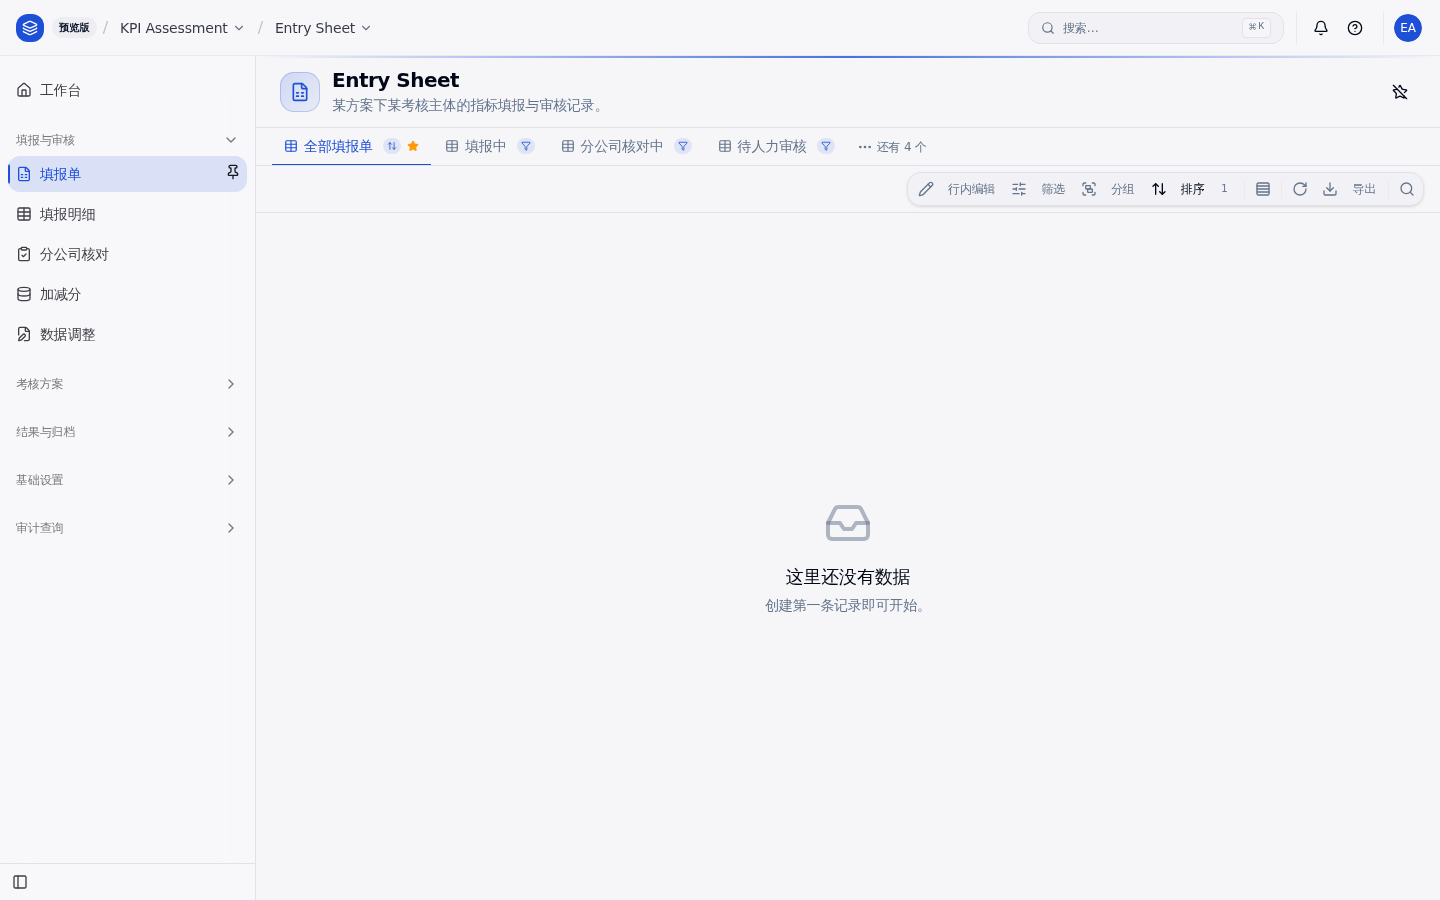
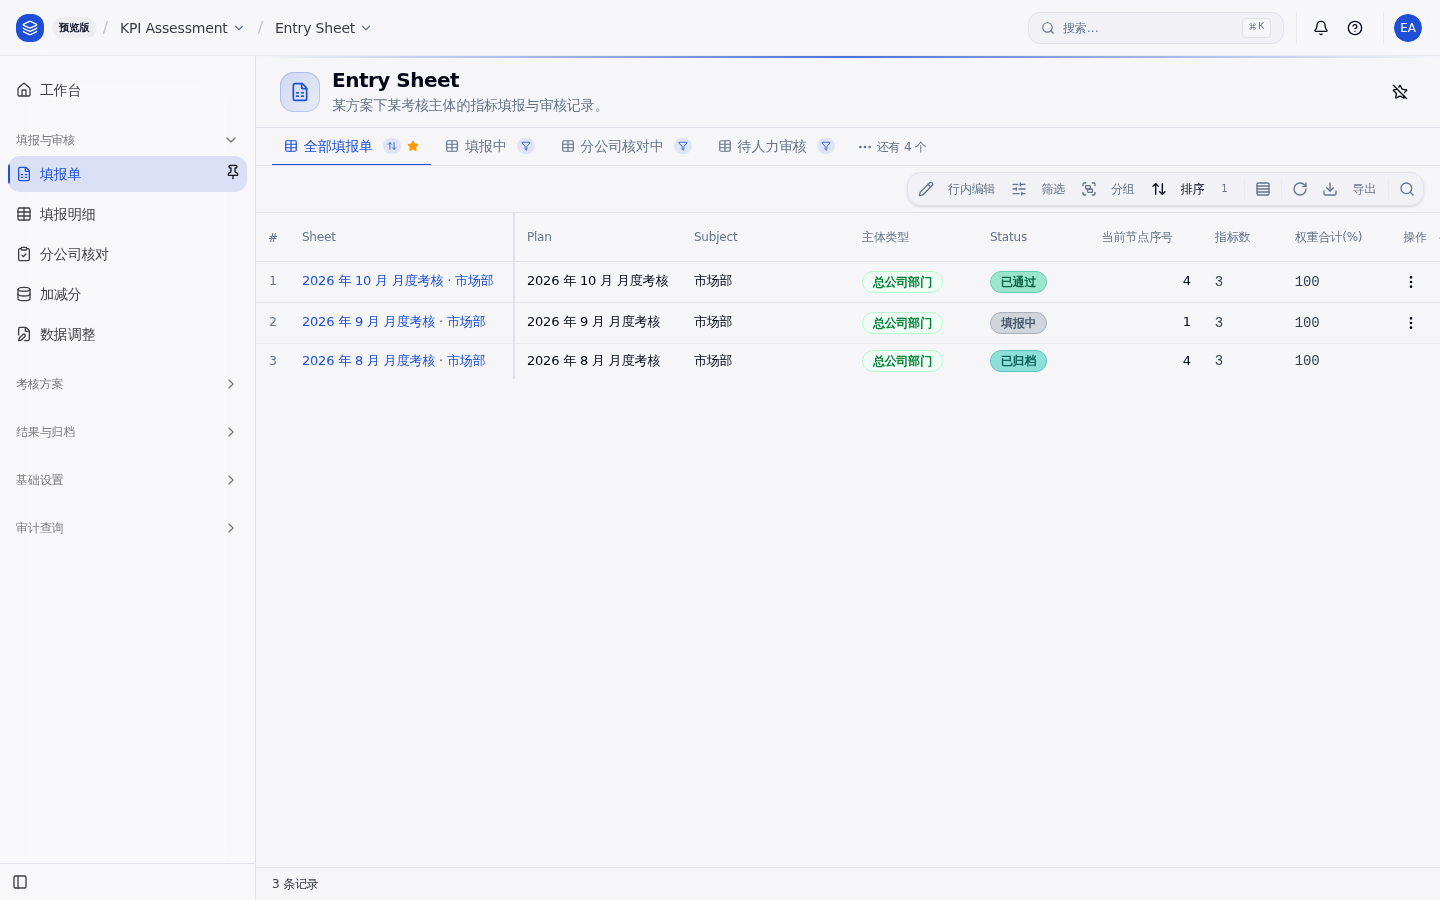
fix(security): make the dynamic data scope actually grant, end to end
Three things stood between the sharing rules and a working data scope. All
three are now measured green: pnpm e2e is 53/53 on a wiped DB, twice.

1. Re-assert the rules at every business trigger. The platform SKIPS record
   sharing materialisation for `isSystem` writes by design (plugin-sharing
   rule-hooks: "sharing materialisation skipped for isSystem writes"; the
   sanctioned remedy is re-evaluating the rule, which is idempotent). Every
   business record in this app -- entry sheets, check tasks, adjustments,
   results -- is created by a hook under the system context, so none of them
   were ever granted at creation. `ensureRule` therefore writes the rule even
   when its content is unchanged, and publish / branch-check entry / adjustment
   approval / result rescore each re-assert the rules for the objects they just
   wrote (`provisionPlanSharing(api, plan, { objects })`).

2. Align the demo fixture's tenancy (src/data/align-demo-units.ts). Seeded
   `sys_business_unit` rows carry `organization_id = NULL` while a rule is
   stamped with the caller's organization, and recipient expansion compares the
   two with strict equality -- so only seeded units expanded to nobody. This
   stamps them the way an admin-created unit already is, at
   `kernel:bootstrapped` (verified to fire on a fresh boot, with the
   organization already resolvable), and is narrowed three ways: dev/test only,
   only the ids this app seeds, only rows whose organization is NULL.
[…]

diff --git a/src/data/align-demo-units.ts b/src/data/align-demo-units.ts
@@ -1,0 +1,110 @@
+import { DEMO_UNIT_IDS } from './index.js';
+
+/**
+ * 演示夹具的租户对齐 —— **临时**,随 objectstack-ai/objectstack#14547 的平台修复一起删除。
+ *
+ * ⚠ 这不是发布 / 共享逻辑的一部分,不改 `services/sharing-service.ts` 的任何语义。
+ * 它修的是**本应用自己的演示夹具**:种子写入的 `sys_business_unit` 行 `organization_id` 为空,
+ * 而管理员在 Setup 里建的单元会被引擎盖上当前组织。共享规则的收件方展开对这一列做**等值**
+ * 比较(平台自己的租户过滤是「本组织或为空」),于是只有种子单元展开不出人 —— 演示环境
+ * 的数据范围整片消失,真实客户组织不受影响。这里把种子单元补成「管理员建的那样」,让演示
+ * 环境与产品路径一致。
+ *
+ * 平台修复(orgScope 改用平台自己的空值宽松租户过滤)落地后:删除本文件、删除
+ * `objectstack.config.ts` 里的调用、删除 README 演示种子一节里的对应说明。
+ *
+ * 三重收窄,任一不满足就不动:
+ *   ① 只在 dev / test 运行(`NODE_ENV === 'production'` 一律跳过);
+ *   ② 只认本应用种子写入的那几个 id(`DEMO_UNIT_IDS`),管理员 / API 建的单元 id 不在其中;
+ *   ③ 只补 `organization_id` 为空的行 —— 已归属某个组织的行绝不改写。
+ */
+
+const SYS = { isSystem: true } as const;
+
+export interface AlignHostContext {
+  ql: {
+    find: (object: string, query: unknown, options?: unknown) => Promise<unknown>;
+    update: (object: string, data: Record<string, unknown>, options?: unknown) => Promise<unknown>;
+  };
+  logger?: { info?: (...a: unknown[]) => void; warn?: (...a: unknown[]) => void };
+  hook?: (event: string, handler: () => Promise<void> | void) => void;
+}
+
+function rowsOf(result: unknown): Array<Record<string, any>> {
+  if (Array.isArray(result)) return result as Array<Record<string, any>>;
+  const records = (result as { records?: unknown })?.records;
+  return Array.isArray(records) ? (records as Array<Record<string, any>>) : [];
+}
+
+/** 生产环境一律不跑;其余环境(dev / test)才是演示夹具的用武之地。 */
+export function isDemoEnvironment(nodeEnv: string | undefined = process.env.NODE_ENV): boolean {
+  return String(nodeEnv ?? '').toLowerCase() !== 'production';
+}
+
+/**
+ * 唯一一个组织时返回它;零个(还没引导完)或多个(多租户,谁是「当前」无从判断)都返回 null,
+ * 由调用方跳过 —— 猜一个组织去盖章比不盖章危险得多。
+ */
+export async function resolveSingleOrganization(ctx: AlignHostContext): Promise<string | null> {
+  try {
+    const orgs = rowsOf(await ctx.ql.find('sys_organization', { limit: 2, context: SYS }));
+    if (orgs.length !== 1) return null;
+    const id = orgs[0]?.id;
+    return id ? String(id) : null;
+  } catch (err) {
+    ctx.logger?.warn?.('[kpi] demo unit alignment: organization lookup failed', { error: err instanceof Error ? err.message : String(err) });
+    return null;
+  }
+}
+
+export interface AlignOutcome {
+  aligned: string[];
+  skipped: 'not_demo_env' | 'no_single_organization' | 'nothing_to_align' | null;
+}
+
+/** 幂等:补过一次之后再跑,查出来的待补行为空,什么都不写。 */
+export async function alignDemoUnits(ctx: AlignHostContext): Promise<AlignOutcome> {
+  if (!isDemoEnvironment()) return { aligned: [], skipped: 'not_demo_env' };
+  const organizationId = await resolveSingleOrganization(ctx);
+  if (!organizationId) return { aligned: [], skipped: 'no_single_organization' };
+
+  let pending: Array<Record<string, any>> = [];
+  try {
+    pending = rowsOf(await ctx.ql.find('sys_business_unit', {
+      where: { id: { $in: [...DEMO_UNIT_IDS] }, organization_id: null },
+      fields: ['id', 'name', 'organization_id'],
+      limit: 200,
+      context: SYS,
+    }));
+  } catch (err) {
+    ctx.logger?.warn?.('[kpi] demo unit alignment: lookup failed', { error: err instanceof Error ? err.message : String(err) });
+    return { aligned: [], skipped: 'nothing_to_align' };
+  }
+  // 二次收窄:即使查询没能过滤掉,也只动 id 在清单里、组织为空的行。
+  const targets = pending.filter((u) => DEMO_UNIT_IDS.includes(String(u.id)) && (u.organization_id ?? null) === null);
+  if (targets.length === 0) return { aligned: [], skipped: 'nothing_to_align' };
+
+  const aligned: string[] = [];
+  for (const unit of targets) {
+    try {
+      await ctx.ql.update('sys_business_unit', { organization_id: organizationId }, { where: { id: String(unit.id) }, context: SYS });
+      aligned.push(String(unit.id));
+    } catch (err) {
+      ctx.logger?.warn?.('[kpi] demo unit alignment: update failed', { unit: unit.id, error: err instanceof Error ? err.message : String(err) });
+    }
+  }
+  ctx.logger?.info?.('[kpi] demo unit tenancy aligned (fixture only — remove with objectstack#14547)', { organization: organizationId, units: aligned });
+  return { aligned, skipped: null };
+}
+
+/** 在安全引导完成后补齐(与岗位↔权限集绑定同一时机)。 */
+export function registerDemoUnitAlignment(ctx: AlignHostContext): void {
+  const run = async (): Promise<void> => {
+    const outcome = await alignDemoUnits(ctx);
+    if (outcome.skipped && outcome.skipped !== 'nothing_to_align') {
+      ctx.logger?.info?.('[kpi] demo unit tenancy alignment skipped', { reason: outcome.skipped });
+    }
+  };
+  if (typeof ctx.hook === 'function') ctx.hook('kernel:bootstrapped', run);
+  else void Promise.resolve().then(run);
+}

diff --git a/src/services/sharing-service.ts b/src/services/sharing-service.ts
@@ -177,19 +177,16 @@ export function planSharingIntents(subjects: SubjectRow[], assignments: Assignme
   return intents;
 }
 
-function rowMatches(row: Record<string, any>, intent: SharingIntent, criteriaJson: string): boolean {
-  return (
-    row.object_name === intent.object &&
-    String(row.criteria_json ?? '') === criteriaJson &&
-    row.recipient_type === intent.recipientType &&
-    String(row.recipient_id ?? '') === intent.recipientId &&
-    row.access_level === intent.accessLevel &&
-    row.active !== false
-  );
-}
-
-/** 写入一条规则;同名规则已存在且内容一致时什么都不做(幂等)。 */
-async function ensureRule(api: Api, intent: SharingIntent, organizationId: string | null): Promise<'created' | 'updated' | 'unchanged'> {
+/**
+ * 写入一条规则。**内容相同也照写一次**,这不是多余的:平台对 `isSystem` 写入**跳过**记录
+ * 共享的物化(plugin-sharing 的 rule-hooks:「sharing materialisation skipped for isSystem
+ * writes」,官方补偿手段是重新求值规则,`evaluateRule` 幂等)。本应用的填报单、核对任务、
+ * 调整、结果**全部**由 hook 以系统上下文创建,所以这些记录不会在创建时拿到共享行 ——
+ * 重新写一次规则会触发求值器把该规则匹配到的记录整批补齐,这正是官方的补偿路径。
+ *
+ * 因此每个业务触发点(发布、进入分公司核对、调整新建、结果重算)都重新声明一次相关规则。
+ */
+async function ensureRule(api: Api, intent: SharingIntent, organizationId: string | null): Promise<'created' | 'reasserted'> {
   const criteriaJson = JSON.stringify(intent.criteria);
   const existing = await api.object('sys_sharing_rule').findOne({ where: { name: intent.name } });
   const payload: Record<string, unknown> = {
@@ -208,9 +205,8 @@ async function ensureRule(api: Api, intent: SharingIntent, organizationId: strin
     await api.object('sys_sharing_rule').insert(payload);
     return 'created';
   }
-  if (rowMatches(existing, intent, criteriaJson)) return 'unchanged';
   await api.object('sys_sharing_rule').updateById(String(existing.id), payload);
-  return 'updated';
+  return 'reasserted';
 }
 
 /**
@@ -231,9 +227,13 @@ async function unitOrganizations(api: Api, unitIds: Iterable<string>): Promise<M
 
 export interface ProvisionOutcome {
   created: number;
-  updated: number;
-  unchanged: number;
+  reasserted: number;
   failed: number;
+}
+
+export interface ProvisionOptions {
+  /** 只重新声明这些对象上的规则;省略 = 全部(方案发布时用)。 */
+  objects?: readonly string[];
 }
 
 /**
@@ -242,11 +242,12 @@ export interface ProvisionOutcome {
  * 单条规则写失败只记服务端日志并继续,绝不阻断发布 —— 数据范围是可补偿的:再次发布
  * 或管理员在 Setup 里补一条即可,而发布回滚会让已生成的填报单与业务动作一起丢失。
  */
-export async function provisionPlanSharing(api: Api, planId: string): Promise<ProvisionOutcome> {
-  const outcome: ProvisionOutcome = { created: 0, updated: 0, unchanged: 0, failed: 0 };
+export async function provisionPlanSharing(api: Api, planId: string, options: ProvisionOptions = {}): Promise<ProvisionOutcome> {
+  const outcome: ProvisionOutcome = { created: 0, reasserted: 0, failed: 0 };
   const subjects = (await api.object('kpi_plan_subject').find({ where: { plan: planId } })) as SubjectRow[];
   const assignments = (await api.object('kpi_staff_assignment').find({ where: { plan: planId } })) as AssignmentRow[];
-  const intents = planSharingIntents(subjects ?? [], assignments ?? []);
+  const all = planSharingIntents(subjects ?? [], assignments ?? []);
+  const intents = options.objects ? all.filter((i) => options.objects!.includes(i.object)) : all;
   const orgOf = await unitOrganizations(api, intents.map((i) => i.anchorUnit));
 
   for (const intent of intents) {

diff --git a/src/hooks/sheet.hook.ts b/src/hooks/sheet.hook.ts
@@ -2,6 +2,7 @@ import type { Hook, HookContext } from '@objectstack/spec/data';
 import { actorId, fail, findById, hasPosition, isSystem, merged, nowIso, recordId, sys, writeReview } from './util.js';
 import { requiredPositionFor, STATUS_LABEL, transition, type PlanStepDef, type SheetAction, type SheetStatus } from '../lib/workflow.js';
 import { regenerateResults } from '../services/results-service.js';
+import { provisionPlanSharing } from '../services/sharing-service.js';
 import { createSnapshot } from '../services/snapshot-service.js';
 
 export async function loadPlanSteps(api: ReturnType<typeof sys>, planId: string): Promise<PlanStepDef[]> {
@@ -183,6 +184,19 @@ export const SheetAfterTransitionHook: Hook = {
       } catch (err) {
         // 汇总失败不回滚流程:结果可在下次通过 / 归档 / 调整落地时重算;错误进服务端日志
         console.error('[kpi] regenerate results failed', { plan: now.plan ?? prev.plan, error: err instanceof Error ? err.message : String(err) });
+      }
+    }
+
+    // 本 hook 新建的记录(核对任务、结果)都是系统上下文写入,平台不会在写入时物化记录共享;
+    // 重新声明相关规则让求值器补齐(见 services/sharing-service.ts 的 ensureRule)。
+    const touched: string[] = [];
+    if (toStatus === 'branch_checking') touched.push('kpi_check_task');
+    if (toStatus === 'approved' || toStatus === 'archived') touched.push('kpi_result');
+    if (touched.length) {
+      try {
+        await provisionPlanSharing(api, String(now.plan ?? prev.plan), { objects: touched });
+      } catch (err) {
+        console.error('[kpi] reassert sharing after transition failed', { sheet: id, error: err instanceof Error ? err.message : String(err) });
       }
     }
   },

diff --git a/src/hooks/adjustment.hook.ts b/src/hooks/adjustment.hook.ts
@@ -1,6 +1,7 @@
 import type { Hook, HookContext } from '@objectstack/spec/data';
 import { actorId, fail, findById, hasPosition, isSystem, merged, nowIso, recordId, sys, toNumber, writeReview } from './util.js';
 import { regenerateResults } from '../services/results-service.js';
+import { provisionPlanSharing } from '../services/sharing-service.js';
 
 /** 数据调整申请:插入时记录调整前值;审批时盖章;批准后落地到明细并重算。 */
 export const AdjustmentHook: Hook = {
@@ -64,7 +65,14 @@ export const AdjustmentHook: Hook = {
         actor: actorId(ctx),
         reason: `「${line.indicator_name ?? line.id}」${row.adjust_type === 'result' ? '得分' : '实际值'} ${row.old_value ?? '空'} → ${newValue};原因:${row.reason ?? ''}`,
       });
-      if (sheet && (sheet.status === 'approved')) await regenerateResults(api, String(sheet.plan));
+      if (sheet && (sheet.status === 'approved')) {
+        await regenerateResults(api, String(sheet.plan));
+        try {
+          await provisionPlanSharing(api, String(sheet.plan), { objects: ['kpi_result'] });
+        } catch (err) {
+          console.error('[kpi] reassert result sharing after adjustment failed', { sheet: sheet.id, error: err instanceof Error ? err.message : String(err) });
+        }
+      }
     }
   },
 };

diff --git a/src/security/index.ts b/src/security/index.ts
@@ -85,9 +85,13 @@ export const DeptReporterPermissionSet = definePermissionSet({
     'kpi_entry_line.adjusted_score': { readable: true, editable: false },
     'kpi_entry_line.score': { readable: true, editable: false },
   },
-  // 到人结果只看本人(行级安全只收窄)
+  // 到人结果只看本人(行级安全只收窄)。
+  // 谓词必须把「到人」维度和其它维度分开:`person == current_user.id` 一条会把部门 / 分公司
+  // 维度的行一并挡掉 —— 那些行 person 为空,填报人员于是连本部门的结果都看不到。
+  // 共享才是外层闸门(结果对象 OWD 为 private,只有本单元的结果行被共享规则放行),
+  // 行级安全只在其上再收窄一层:非到人维度照常,到人维度只留本人。
   rowLevelSecurity: [
-    { name: 'kpi_result_own_person', object: 'kpi_result', operation: 'select', using: 'person == current_user.id', positions: ['kpi_dept_reporter'], enabled: true },
+    { name: 'kpi_result_own_person', object: 'kpi_result', operation: 'select', using: "dimension != 'person' || person == current_user.id", positions: ['kpi_dept_reporter'], enabled: true },
   ],
 });
 

diff --git a/objectstack.config.ts b/objectstack.config.ts
@@ -12,6 +12,7 @@ import { allPermissionSets, allPositions } from './src/security/index.js';
 import { registerKpiPositionBindings } from './src/security/bind-position-sets.js';
 import { KpiTranslationBundle } from './src/translations/index.js';
 import { KpiSeedData } from './src/data/index.js';
+import { registerDemoUnitAlignment } from './src/data/align-demo-units.js';
 
 /**
  * KPI 考核管理系统 — 基于 ObjectStack 的独立应用。
@@ -54,4 +55,6 @@ export default defineStack({
 /** 岗位↔权限集绑定在安全引导完成后幂等补齐(不能用种子,见 bind-position-sets.ts)。 */
 export const onEnable = async (ctx: unknown): Promise<void> => {
   registerKpiPositionBindings(ctx as Parameters<typeof registerKpiPositionBindings>[0]);
+  // 演示夹具的租户对齐 —— 临时,随 objectstack-ai/objectstack#14547 的平台修复一起删除。
+  registerDemoUnitAlignment(ctx as Parameters<typeof registerDemoUnitAlignment>[0]);
 };

diff --git a/src/hooks/bonus.hook.ts b/src/hooks/bonus.hook.ts
@@ -1,6 +1,7 @@
 import type { Hook, HookContext } from '@objectstack/spec/data';
 import { actorId, fail, findById, hasPosition, isSystem, merged, nowIso, sys, toNumber } from './util.js';
 import { regenerateResults } from '../services/results-service.js';
+import { provisionPlanSharing } from '../services/sharing-service.js';
 
 /** 加减分:计入分值带符号;审批盖章需人力岗位;归档后锁定。 */
 export const BonusHook: Hook = {
@@ -66,6 +67,7 @@ export const BonusAfterDecideHook: Hook = {
     if (!sheet || (sheet.status !== 'approved' && sheet.status !== 'archived')) return;
     try {
       await regenerateResults(api, String(sheet.plan));
+      await provisionPlanSharing(api, String(sheet.plan), { objects: ['kpi_result'] });
     } catch (err) {
       console.error('[kpi] regenerate results after bonus decision failed', { sheet: sheet.id, error: err instanceof Error ? err.message : String(err) });
     }

diff --git a/src/data/index.ts b/src/data/index.ts
@@ -106,4 +106,10 @@ const planIndicators = defineSeed(PlanIndicator, {
   ],
 });
 
+/**
+ * 演示组织单元的 id 清单 —— 从上面的种子记录派生,不另抄一份(抄一份就会漂)。
+ * 只有这些 id 才是本应用的演示夹具;管理员在 Setup 里建的单元不在其中。
+ */
+export const DEMO_UNIT_IDS: readonly string[] = orgUnits.records.map((r) => String(r.id));
+
 export const KpiSeedData = [orgUnits, indicators, indicatorSteps, plans, planSteps, planSubjects, planIndicators];

diff --git a/docs/04-需求符合度清单.md b/docs/04-需求符合度清单.md
@@ -35,7 +35,7 @@
 | # | 需求 | 态 | 实现落点 / 证据 | 偏差与出口 |
 |---|---|---|---|---|
 | 17 | 六类角色职责 | ✅ | 岗位 `kpi_admin / kpi_hr_reviewer / kpi_hr_head / kpi_dept_reporter / kpi_branch_checker / kpi_exec_leader`,流程节点按岗位把关(hook 经 `sys_user_position` 查询) | 组织 owner / admin 自动等同系统管理员 |
-| 18 | 数据范围:全部 / 分管 / 本部门 / 仅本人 | ⚠ | 全部 = org、仅本人 = own 原生;本部门 / 本分公司 / 分管范围 = private 基线 + 方案发布时按参与主体与分管领导写入的动态共享规则(`src/services/sharing-service.ts`);到人结果行级安全只看本人 | **平台受限(新)**:分管领导一路(收件方为具体用户)已实测生效(T46、T47);单元一路在演示种子组织上展开不出人 —— 共享规则被引擎盖上当前组织,而种子写入的 `sys_business_unit` 行 `organization_id` 为空,收件方展开对二者做**等值**比较(平台自己的租户过滤是「本组织或为空」)。已上报 objectstack-ai/objectstack#14547;管理员在 Setup 里新建的组织单元不受影响。不再依赖企业版 `hierarchy-security` |
+| 18 | 数据范围:全部 / 分管 / 本部门 / 仅本人 | ✅ | 全部 = org、仅本人 = own 原生;本部门 / 本分公司 / 分管范围 = private 基线 + 方案发布时按参与主体、分管领导、到人分工写入的**动态共享规则**(`src/services/sharing-service.ts`),组织变化零元数据改动;到人结果行级安全只挡他人的到人维度(T41、T44、T46、T51)。不再依赖企业版 `hierarchy-security` | 两点实现说明:① 本应用的业务记录全部由 hook 以系统上下文创建,而平台对 `isSystem` 写入跳过记录共享物化(官方补偿手段是重新求值规则),因此每个业务触发点都重新声明一次相关规则;② 演示种子的组织单元 `organization_id` 为空,`src/data/align-demo-units.ts` 在启动时把它们补成与 Setup 新建单元一致 —— 这是 objectstack-ai/objectstack#14547 的**临时夹具**修补,平台修复后删除(T52) |
 | 19 | 越权访问拒绝、经办人以登录账号为准 | ✅ | 权限集对象级 + 字段级;经办人 / 审批人字段只读由 hook 盖章 | — |
 | 20 | 账号安全(密码策略、停用即失效、失败限制、白名单、敏感操作留痕) | ✅ | 平台账号体系(`sys_user` 失败计数 / 锁定 / 封禁 / 强制改密);审批、驳回、归档留痕 | 访问来源白名单归部署层(反向代理 / 网关)配置 |
 
@@ -50,5 +50,5 @@
 
 ## 五、统计
 
-- ✅ 完整实现 20 条;⚠ 有偏差 4 条(#4 xlsx 直导、#18 数据范围的单元一路、#22 自由公式边界、#23 未压测);❌ 未实现 0 条。
-- ⚠ 出口:#18 平台受限(已上报 objectstack-ai/objectstack#14547,待平台修复后复测,不改本应用代码);#4 / #23 升级为二期事项交 PM 裁决;#22 退回需求确认(演示后拍板)。
+- ✅ 完整实现 21 条;⚠ 有偏差 3 条(#4 xlsx 直导、#22 自由公式边界、#23 未压测);❌ 未实现 0 条。
+- ⚠ 出口:#4 / #23 升级为二期事项交 PM 裁决;#22 退回需求确认(演示后拍板)。#18 已完整实现,但其中的演示夹具对齐是临时的,随 objectstack-ai/objectstack#14547 的平台修复删除。

diff --git a/README.md b/README.md
@@ -29,6 +29,13 @@ pnpm dev             # http://localhost:3000 ;Console: /_console/ ;管理员 adm
 1 个草稿方案(4 节点流程、5 个参与主体、18 条指标下达)。用户不能种子,请在 Setup 中创建
 用户、加入组织单元并分配岗位。
 
+> ⚠ 演示夹具的租户对齐(临时):种子写入的组织单元 `organization_id` 为空,而管理员在
+> Setup 里新建的单元会被引擎盖上当前组织;共享规则的收件方展开对这一列做等值比较,所以
+> 只有种子单元展开不出人。`src/data/align-demo-units.ts` 在 `kernel:bootstrapped` 时把这几个
+> 种子单元(且仅这几个 id、且仅 `organization_id` 为空的行、且仅 dev / test)补成与 Setup 新建
+> 单元一致。这是 objectstack-ai/objectstack#14547 的临时夹具修补,平台修复落地后请连同
+> `objectstack.config.ts` 里的调用一起删除。
+
 ## 角色与岗位
 
 | 需求角色 | 岗位(position) | 权限集 | 数据范围 |
